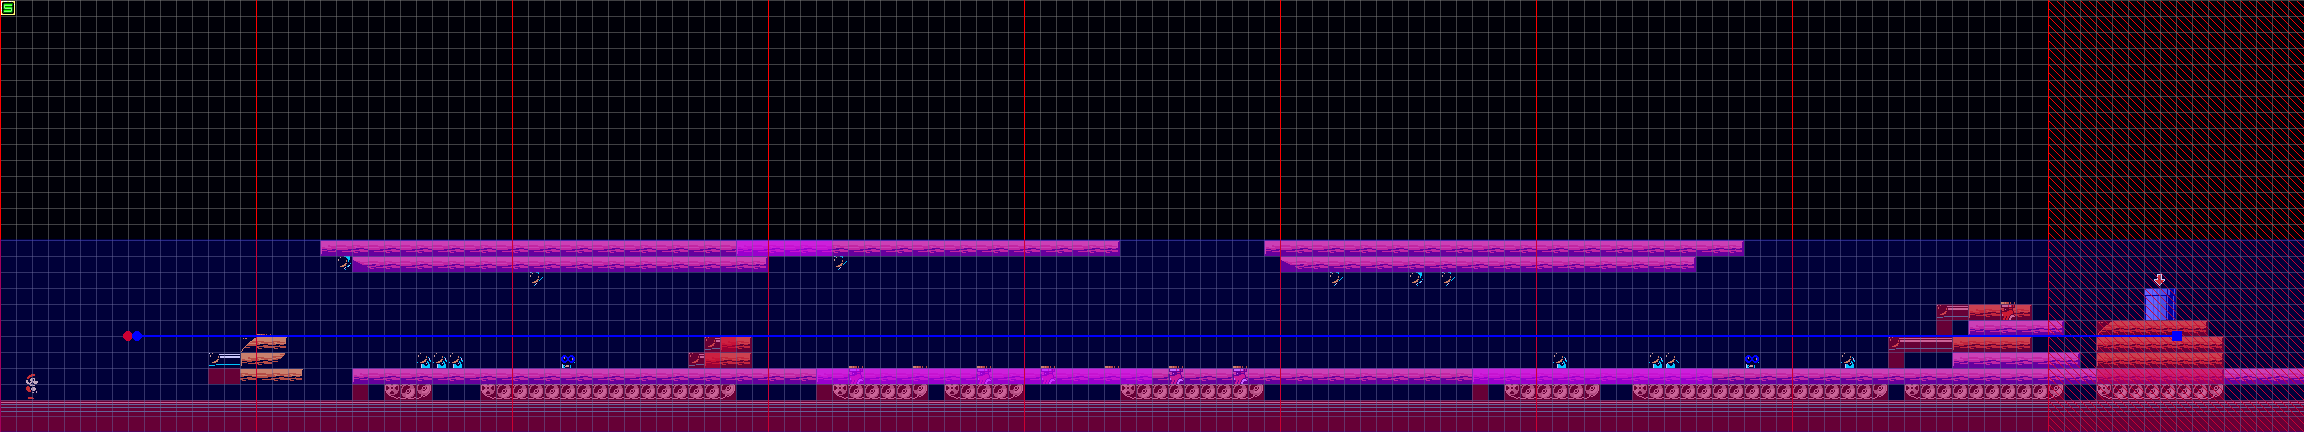
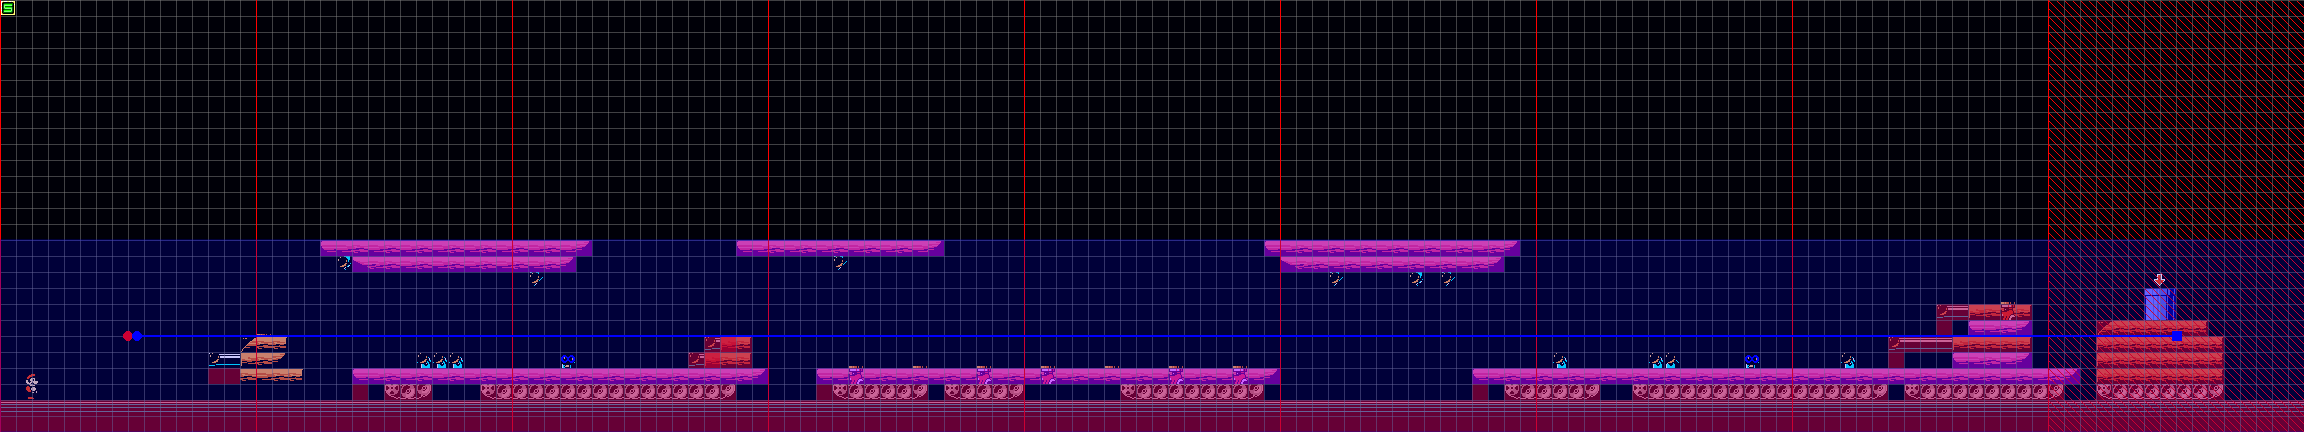
fix wooden tank beam object by creating new generator for it (#253)

diff --git a/foundry/game/gfx/objects/in_level/object_renderer.py b/foundry/game/gfx/objects/in_level/object_renderer.py
@@ -6,7 +6,7 @@ from PySide6.QtCore import QRect
 from foundry.game import GROUND, SKY
 from foundry.game.File import ROM
 from foundry.game.ObjectDefinitions import EndType, GeneratorType
-from smb3parse.levels import LEVEL_SCREEN_HEIGHT, LEVEL_SCREEN_WIDTH
+from smb3parse.levels import LEVEL_MAX_LENGTH, LEVEL_SCREEN_HEIGHT, LEVEL_SCREEN_WIDTH
 from smb3parse.objects.object_set import PLAINS_OBJECT_SET
 
 ENDING_STR = {
@@ -32,10 +32,13 @@ GENERATOR_TYPE_TO_STR = {
     GeneratorType.PYRAMID_2: "Pyramid Alternative",
     GeneratorType.TO_THE_SKY: "To the Sky",
     GeneratorType.ENDING: "Ending",
+    GeneratorType.BRICK_WALL: "Brick Wall",
+    GeneratorType.DIAG_STAGGERED: "Diagonal Staggered",
+    GeneratorType.WOODEN_TANK_BEAM: "Wooden Tank Beam",
 }
 
 
-# not all objects provide a block index for blank block
+# not all objects provide a block index for a blank block
 BLANK = -1
 
 if TYPE_CHECKING:
@@ -147,10 +150,12 @@ class ObjectRenderer:
 
         elif self._object.generator_type in [
             GeneratorType.HORIZONTAL,
-            GeneratorType.HORIZ_TO_GROUND,
             GeneratorType.HORIZONTAL_2,
+            GeneratorType.HORIZ_TO_GROUND,
         ]:
             self._render_horizontal(blocks_to_draw)
+        elif self._object.generator_type == GeneratorType.WOODEN_TANK_BEAM:
+            self._render_wooden_tank_beam(blocks_to_draw)
 
         elif self._object.generator_type == GeneratorType.BRICK_WALL:
             self._render_brick_wall(blocks_to_draw)
@@ -239,6 +244,30 @@ class ObjectRenderer:
 
             if self._object.height > 1:
                 _insert_block_row(bottom)
+
+    def _render_wooden_tank_beam(self, blocks_to_draw: list[int]):
+        # The block is always rendered as having a height of 1, no matter what the object data says
+        # It also expands it's width differently and alternates between two fill blocks, needing its own generator
+        self._new_height = 1
+
+        # length of 0 fills the screen, length of 1 means 2, 2 means 3 and so on
+        if self._object.length == 0:
+            # TODO Would need a level reference to know how many screens there are, to properly size this object
+            # Now it extends past most levels, unless they are at max size, causing a warning in the editor
+            self._new_width = LEVEL_MAX_LENGTH - self._base_x
+        else:
+            self._new_width = self._object.width + (self._object.length - 1)
+
+        left_end, right_end, *middles = self._object.blocks
+        blocks_to_draw.append(left_end)
+
+        middle_block_count = self._new_width - self._object.width
+
+        # any width larger than 2 is filled by alternating between the two fill blocks
+        for middle_index in range(middle_block_count):
+            blocks_to_draw.append(middles[middle_index % len(middles)])
+
+        blocks_to_draw.append(right_end)
 
     def _render_black_boss_room_bg(self, blocks_to_draw: list[int]):
         self._new_width = LEVEL_SCREEN_WIDTH

diff --git a/foundry/game/gfx/objects/__init__.py b/foundry/game/gfx/objects/__init__.py
@@ -13,8 +13,12 @@ from foundry.game.gfx.objects.world_map.level_pointer import LevelPointer
 from foundry.game.gfx.objects.world_map.locks import Lock
 from foundry.game.gfx.objects.world_map.map_tile import MapTile
 from foundry.game.gfx.objects.world_map.sprite import Sprite
+from smb3parse.objects.object_set import AIR_SHIP_OBJECT_SET
 
 Iconifiable = TypeVar("Iconifiable", None, _InLevelObject)
+
+_wooden_tank_beam = (AIR_SHIP_OBJECT_SET, 0x03, 0x70)
+_special_cases = [_wooden_tank_beam]
 
 
 def get_minimal_icon_object(level_object: Iconifiable) -> Iconifiable:
@@ -25,6 +29,12 @@ def get_minimal_icon_object(level_object: Iconifiable) -> Iconifiable:
         return level_object
 
     level_object.ground_level = 3
+
+    if level_object.object_info in _special_cases:
+        if level_object.object_info == _wooden_tank_beam:
+            level_object.length = 1
+
+        level_object.render()
 
     while (
         any(block not in level_object.rendered_blocks for block in level_object.blocks) and level_object.length < 0x10

diff --git a/foundry/game/gfx/objects/in_level/level_object.py b/foundry/game/gfx/objects/in_level/level_object.py
@@ -42,6 +42,7 @@ GENERATOR_TYPE_TO_STR = {
     GeneratorType.TO_THE_SKY: "To the Sky",
     GeneratorType.ENDING: "Ending",
     GeneratorType.BRICK_WALL: "Brick Wall",
+    GeneratorType.WOODEN_TANK_BEAM: "Wooden Tank Beam",
 }
 
 

diff --git a/foundry/game/ObjectDefinitions.py b/foundry/game/ObjectDefinitions.py
@@ -42,6 +42,7 @@ class GeneratorType(Enum):
     ENDING = 14
     BRICK_WALL = 15
     DIAG_STAGGERED = 16
+    WOODEN_TANK_BEAM = 17  # special expansion rules and infinite expansion when length 0
 
 
 class EndType(Enum):
